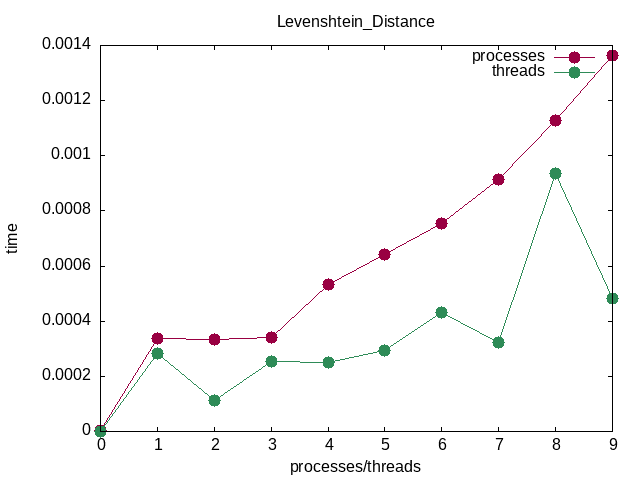
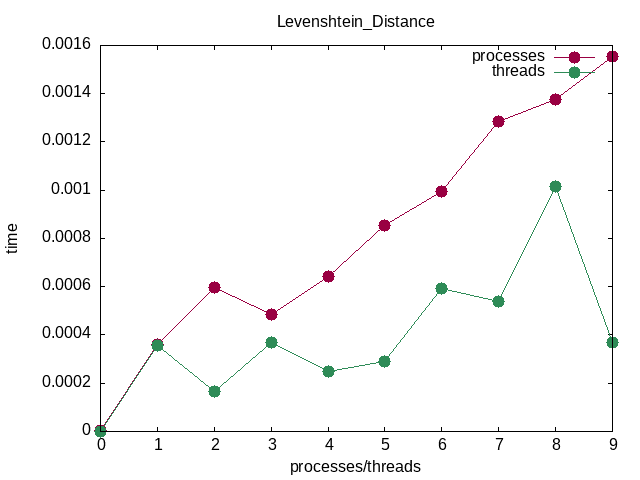
test function

diff --git a/algotest.c b/algotest.c
@@ -33,9 +33,8 @@ void* worker(void* func){
 
 }
 
-double levenshtein_fork(int processes){
+double levenshtein_fork(int n, int processes){
 	char* test_cases[] = {"France", "French", "Bread", "Broad"};
-	int n = 4;
 	int c = 0;
 	TIMER_START
 	for(int i=0; i<processes; i++){
@@ -52,9 +51,8 @@ double levenshtein_fork(int processes){
 	RETURN_TIME
 }
 
-double levenshtein_thread(const int threads) {
+double levenshtein_thread(int n, const int threads) {
 	char* test_cases[] = {"France", "French", "Bread", "Broad"};
-	int n = 4;
 	int c = 0;
 	pthread_t tid[threads];
 	TIMER_START
@@ -71,7 +69,7 @@ double levenshtein_thread(const int threads) {
 }
 
 
-int cat_fork(int n, int processes) {
+int cat_fork(int n, const int processes) {
 	TIMER_START
 	for (size_t i = 0; i < processes; i++) {
 		pid_t pid;
@@ -88,7 +86,7 @@ int cat_fork(int n, int processes) {
 
 }
 
-int lazy_fork(int n, int processes) {
+int lazy_fork(int n, const int processes) {
 	TIMER_START
 	for (size_t i = 0; i < processes; i++) {
 		pid_t pid;
@@ -104,7 +102,7 @@ int lazy_fork(int n, int processes) {
 	RETURN_TIME
 }
 
-int trig_fork(int n, int processes) {
+int trig_fork(int n, const int processes) {
 	TIMER_START
 	for (size_t i = 0; i < processes; i++) {
 		pid_t pid;
@@ -120,7 +118,7 @@ int trig_fork(int n, int processes) {
 	RETURN_TIME
 }
 
-int taylor_fork(int x, int processes) {
+int taylor_fork(int x, const int processes) {
 	TIMER_START
 	for (size_t i = 0; i < processes; i++) {
 		pid_t pid;

diff --git a/main.c b/main.c
@@ -28,17 +28,17 @@ void generate_image(char* title, double* p_data, double* t_data, const int n) {
 	pclose(gp);
 }
 
-int main() {
-	char* title = "Levenshtein_Distance";
+void test_and_generate(char* title, int n, double (*process)(int, const int), double (*thread)(int, const int)) {
 	double fork_times[10] = {0}, thread_times[10] = {0};
-	// char* test[] = {"Bread", "Broad"};	
 
 	for(int p=0; p<10; p++){
-		fork_times[p] = levenshtein_fork(p);
-		thread_times[p] = levenshtein_thread(p);
+		fork_times[p] = process(n, p);
+		thread_times[p] = thread(n, p);
 	}
-
 	generate_image(title, fork_times, thread_times, 10);
-	
+
+}
+int main() {
+	test_and_generate("Levenshtein_Distance", 4, &levenshtein_fork, &levenshtein_thread);
     return 0;
 }

diff --git a/algotest.h b/algotest.h
@@ -1,2 +1,2 @@
-double levenshtein_thread(const int threads);
-double levenshtein_fork(int processes);
+double levenshtein_thread(int n, const int threads);
+double levenshtein_fork(int n, const int processes);
